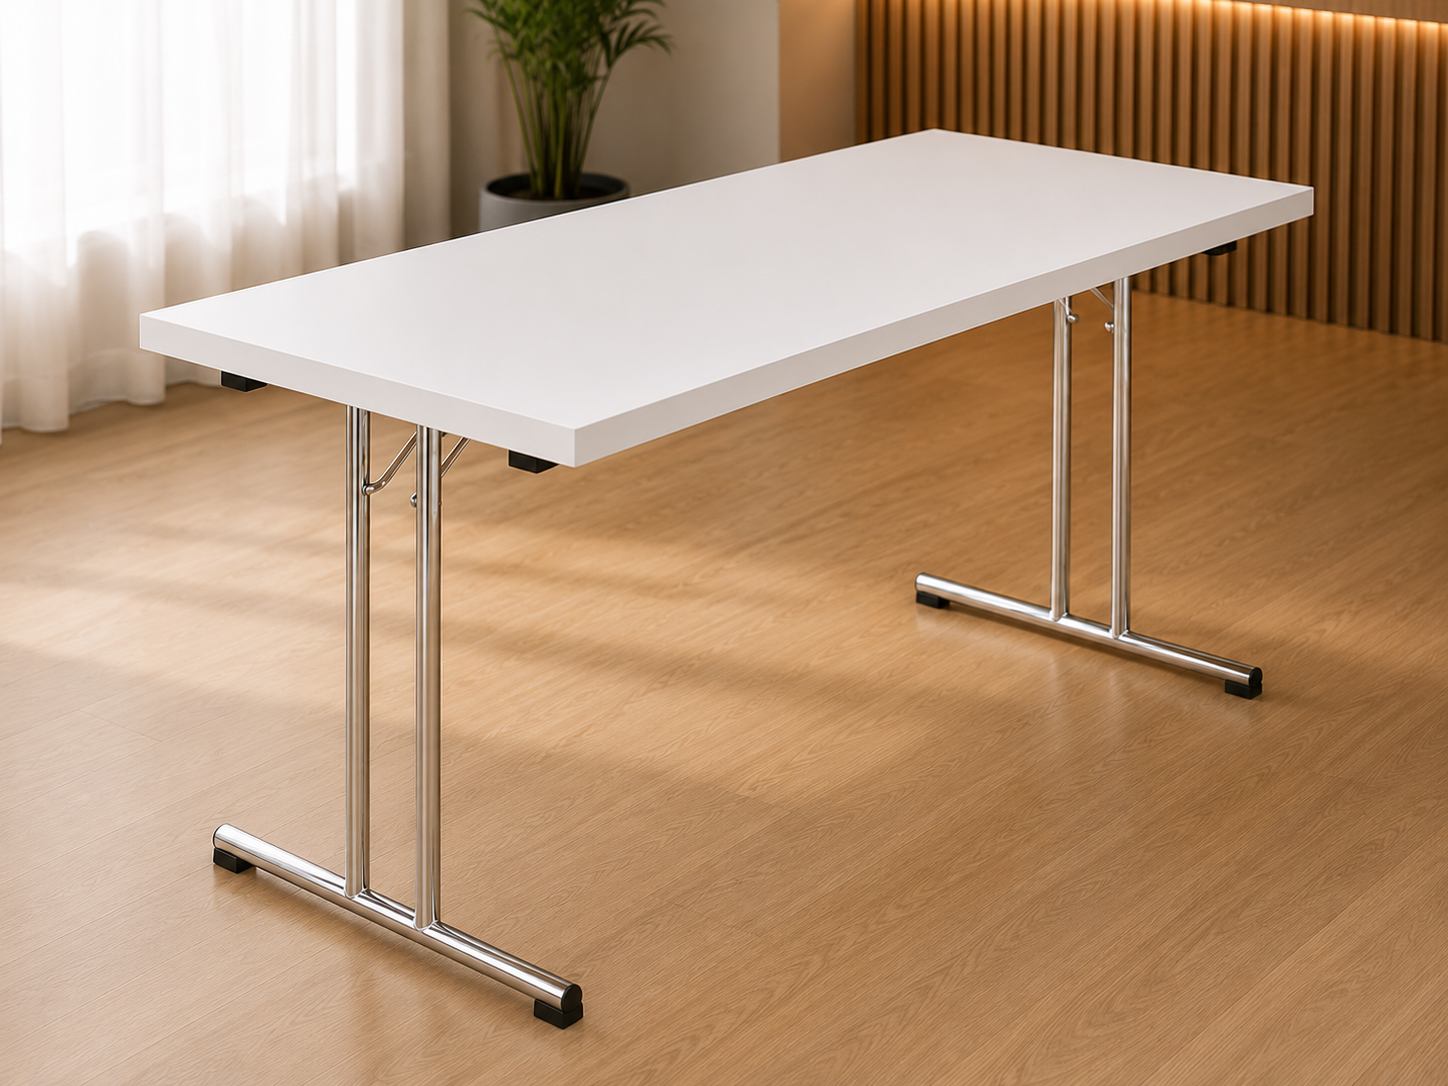
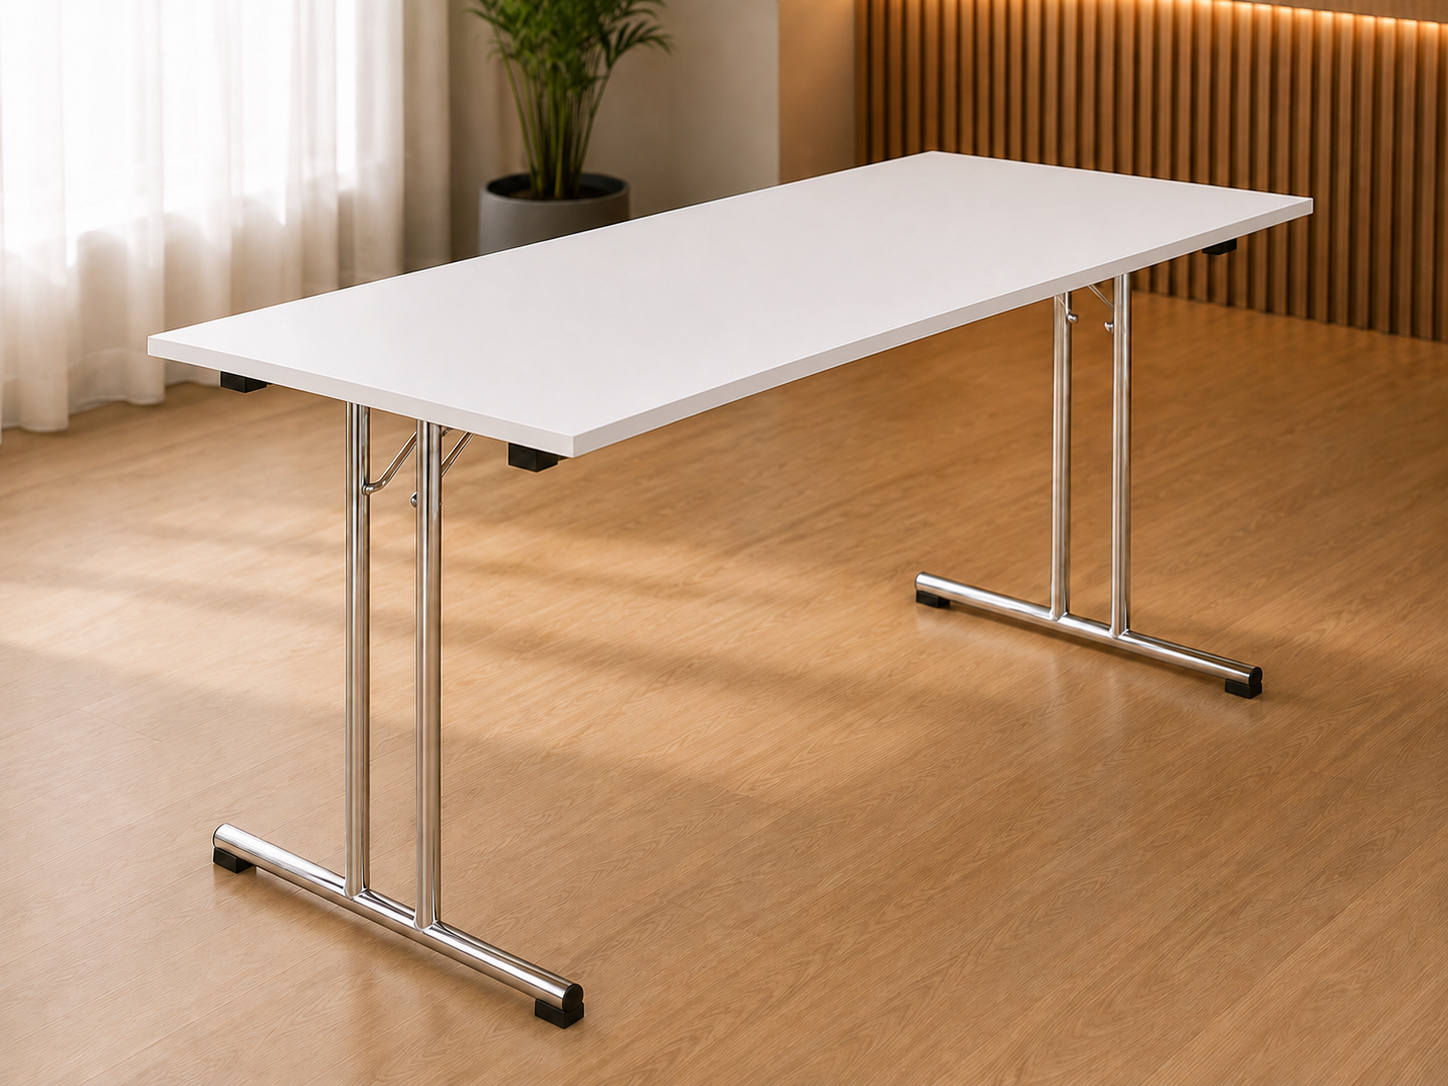
few fixes

diff --git a/src/app/raeume-planung/raumplanung/page.tsx b/src/app/raeume-planung/raumplanung/page.tsx
@@ -18,15 +18,70 @@ export const metadata: Metadata = buildMetadata({
 
 const topics = ["2D-Planung und Grundriss", "3D-Ansichten je nach Projekt", "Stellpläne und Bestuhlungsvarianten", "Reihenbestuhlung und Abstände", "Fluchtwege im Planungskontext", "Tischanordnungen für verschiedene Nutzungen", "Säulen und schwierige Raumgeometrien", "Lager- und Transportwege"];
 
+const tableArrangements = [
+  {
+    src: "/neue bilder/Stellbeispiele/trtst01.JPG",
+    title: "Kompakte Gesprächsrunde",
+    description: "Zwei Trapeztische bilden eine geschlossene Runde mit sechs Sitzplätzen.",
+    alt: "Stellbeispiel aus zwei Trapeztischen als kompakte Gesprächsrunde",
+  },
+  {
+    src: "/neue bilder/Stellbeispiele/trtst02.JPG",
+    title: "Große Gruppenrunde",
+    description: "Sechs Tische schaffen eine großzügige Mitte und Platz für größere Gruppen.",
+    alt: "Stellbeispiel aus sechs Trapeztischen als große Gruppenrunde",
+  },
+  {
+    src: "/neue bilder/Stellbeispiele/trtst03.JPG",
+    title: "Lange Tafel",
+    description: "Mit Rechteck- und Trapeztischen entsteht eine klare Tafel für Besprechungen.",
+    alt: "Stellbeispiel aus Trapez- und Rechtecktischen als lange Tafel",
+  },
+  {
+    src: "/neue bilder/Stellbeispiele/trtst04.JPG",
+    title: "Freie Sonderform",
+    description: "Auch ungewöhnliche Geometrien lassen sich aus wenigen Elementen entwickeln.",
+    alt: "Dreieckige Sonderform aus mehreren Trapeztischen",
+  },
+];
+
 export default function RaumplanungPage() {
   return <div className="page-stack">
     <StructuredData data={{ "@context": "https://schema.org", "@type": "Service", name: "Raum- und Bestuhlungsplanung", serviceType: "2D- und 3D-Raumplanung", provider: { "@type": "LocalBusiness", name: "Dalemans Stapelstühle & Klapptische", url: absoluteUrl("/") }, url: absoluteUrl("/raeume-planung/raumplanung") }} />
     <CinematicPageHero eyebrow="Raum- & Bestuhlungsplanung" title="Vor der Bestellung sehen, ob die Lösung im Raum funktioniert." lead="Planung schafft Sicherheit bei Reihen, Wegen, Tischen, schwierigen Geometrien und unterschiedlichen Nutzungsszenarien." breadcrumbs={[{ label: "Start", href: "/" }, { label: "Räume & Planung", href: "/raeume-planung" }, { label: "Raumplanung" }]} breadcrumbPath="/raeume-planung/raumplanung" mediaAriaLabel="CAD- und Bestuhlungsplanung" mood="bronze-glow" actions={<><Link href="/kontakt?service=Raumplan%20prüfen" className="btn-hero-primary">Raumplan prüfen lassen</Link><Link href="/produkte" className="btn-hero-secondary">Produkte einbeziehen</Link></>} visual={<Image src={encodeURI("/pictures/Über uns/CAD-Entwicklung.png")} alt="CAD-Darstellung als Teil einer Raumplanung" width={760} height={500} priority sizes="(min-width: 1024px) 42vw, 100vw" className="min-h-72 w-full object-cover" />} />
+    <HomeSection id="stellbeispiele" variant="elevated">
+      <SectionHeader eyebrow="Stellbeispiele" title="Ein Tischsystem, viele Möglichkeiten." lead="Trapez- und Rechtecktische lassen sich immer wieder neu kombinieren – passend zu Gruppengröße, Anlass und Raum. So wird aus derselben Ausstattung eine Gesprächsrunde, eine große Gruppenform oder eine lange Tafel." align="editorial" />
+      <div className="section-grid-top grid gap-5 sm:grid-cols-2 lg:grid-cols-4">
+        {tableArrangements.map((arrangement, index) => (
+          <figure key={arrangement.src} className="premium-card group overflow-hidden">
+            <div className="relative aspect-[4/3] overflow-hidden bg-white p-5">
+              <Image src={encodeURI(arrangement.src)} alt={arrangement.alt} fill sizes="(min-width: 1024px) 25vw, (min-width: 640px) 50vw, 100vw" className="object-contain p-4 transition duration-500 group-hover:scale-[1.03]" />
+              <span className="absolute left-4 top-4 rounded-full bg-premium-ink px-3 py-1 text-[0.65rem] font-semibold tracking-[0.18em] text-premium-canvas">0{index + 1}</span>
+            </div>
+            <figcaption className="border-t border-premium-beige/70 p-6">
+              <h3 className="font-display text-xl font-medium text-premium-ink">{arrangement.title}</h3>
+              <p className="mt-3 text-sm leading-6 text-premium-muted">{arrangement.description}</p>
+            </figcaption>
+          </figure>
+        ))}
+      </div>
+      <div className="mt-6 grid overflow-hidden rounded-5xl border border-premium-beige/70 bg-premium-canvas shadow-premium lg:grid-cols-[1.2fr_.8fr] lg:items-center">
+        <div className="relative min-h-72 bg-white sm:min-h-96">
+          <Image src={encodeURI("/neue bilder/Stellbeispiele/Stellbeispiel_Trapeztische-quer.jpg")} alt="Übersicht verschiedener Aufstellungsvorschläge und Maße für Trapeztische" fill sizes="(min-width: 1024px) 60vw, 100vw" className="object-contain p-5 sm:p-8" />
+        </div>
+        <div className="border-t border-premium-beige/70 p-7 sm:p-9 lg:border-l lg:border-t-0">
+          <p className="section-eyebrow">Planbar bis ins Detail</p>
+          <h3 className="mt-4 font-display text-3xl font-medium text-premium-ink">Varianten und Platzbedarf vorab vergleichen.</h3>
+          <p className="mt-5 text-sm leading-7 text-premium-muted">Die Übersicht zeigt, wie sich Tischform, Sitzplatzzahl und benötigte Fläche verändern. In der Raumplanung übertragen wir passende Varianten auf Ihren Grundriss.</p>
+          <Link href="/kontakt?service=Raumplan%20prüfen" className="btn-secondary mt-7 inline-flex">Eigene Stellvariante planen</Link>
+        </div>
+      </div>
+    </HomeSection>
     <HomeSection id="stellplaene">
       <SectionHeader eyebrow="Planungsumfang" title="So konkret wie das Projekt es braucht" lead="Nicht jedes Projekt benötigt dieselbe Planungstiefe. Wir wählen die Darstellung passend zu Raum, Nutzung und Entscheidungsstand." align="editorial" />
       <div className="section-grid-top grid gap-4 sm:grid-cols-2 lg:grid-cols-4">{topics.map((topic) => <div key={topic} className="premium-card p-6 text-sm font-medium leading-7 text-premium-charcoal">{topic}</div>)}</div>
     </HomeSection>
-    <HomeSection id="geometrie" variant="elevated"><div className="grid gap-10 lg:grid-cols-2 lg:items-center"><Image src={encodeURI("/pictures/Über uns/Skizze01.jpg")} alt="Skizze zur Lösung einer besonderen Raumgeometrie" width={720} height={520} sizes="(min-width: 1024px) 50vw, 100vw" className="h-80 w-full rounded-5xl object-cover" /><div><p className="section-eyebrow">Geometrie & Varianten</p><h2 className="section-title mt-5">Säulen, Winkel und wechselnde Nutzungen sichtbar machen.</h2><p className="section-lead mt-6">Ein Grundriss kann zeigen, wie unterschiedliche Bestuhlungen, Tischordnungen und Bewegungsflächen zusammenpassen. Vorgaben zu Fluchtwegen werden projektbezogen berücksichtigt; eine behördliche Fachplanung wird dadurch nicht ersetzt.</p><Link href="/kontakt?anliegen=Schwierige%20Raumgeometrie" className="btn-primary mt-8 inline-flex">Raumgeometrie besprechen</Link></div></div></HomeSection>
+    <HomeSection id="geometrie" variant="elevated"><div className="grid gap-10 lg:grid-cols-2 lg:items-center"><Image src={encodeURI("/neue bilder/planung-schritt-3.png")} alt="Skizze zur Lösung einer besonderen Raumgeometrie" width={720} height={520} sizes="(min-width: 1024px) 50vw, 100vw" className="h-80 w-full rounded-5xl object-cover" /><div><p className="section-eyebrow">Geometrie & Varianten</p><h2 className="section-title mt-5">Säulen, Winkel und wechselnde Nutzungen sichtbar machen.</h2><p className="section-lead mt-6">Ein Grundriss kann zeigen, wie unterschiedliche Bestuhlungen, Tischordnungen und Bewegungsflächen zusammenpassen. Vorgaben zu Fluchtwegen werden projektbezogen berücksichtigt; eine behördliche Fachplanung wird dadurch nicht ersetzt.</p><Link href="/kontakt?anliegen=Schwierige%20Raumgeometrie" className="btn-primary mt-8 inline-flex">Raumgeometrie besprechen</Link></div></div></HomeSection>
     <PremiumCtaSection title="Sie haben bereits einen Grundriss oder Stellplan?" lead="Senden Sie den vorhandenen Stand mit einer kurzen Beschreibung der geplanten Nutzungen. Wir prüfen, welche Planungstiefe sinnvoll ist." primaryHref="/kontakt?service=Raumplan%20prüfen" primaryLabel="Raumplan prüfen lassen" secondaryHref="/raeume-planung" secondaryLabel="Alle Raumthemen" />
   </div>;
 }
